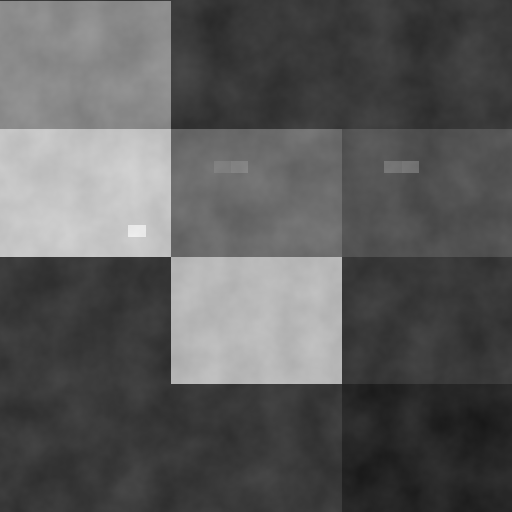
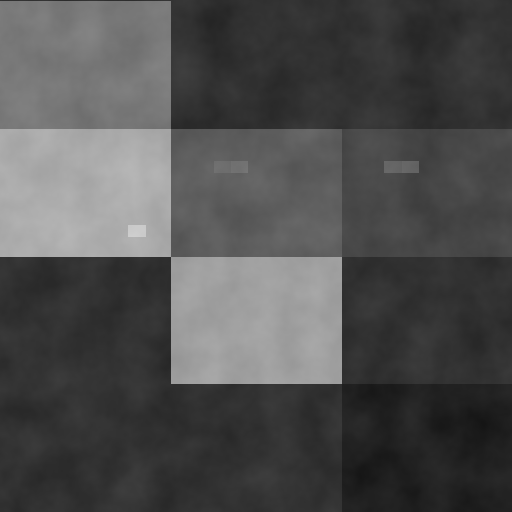
refactor(map-3d): address code review feedback - improve shader configurability and performance

Changed region(s): [[0.0, 0.25, 0.3438, 0.5], [0.375, 0.5, 0.6562, 0.75], [0.3438, 0.5, 0.4375, 0.625]]

diff --git a/scripts/generate-heightmap.js b/scripts/generate-heightmap.js
@@ -45,7 +45,12 @@ class PerlinNoise {
   }
 
   rand(x, y) {
-    const n = Math.sin(x * 12.9898 + y * 78.233 + this.seed) * 43758.5453;
+    // Pseudo-random number generator using sine function
+    // Constants chosen for good distribution properties
+    const MAGIC_X = 12.9898;  // X multiplier for distribution
+    const MAGIC_Y = 78.233;   // Y multiplier for distribution
+    const MAGIC_SCALE = 43758.5453; // Large prime-like number for amplification
+    const n = Math.sin(x * MAGIC_X + y * MAGIC_Y + this.seed) * MAGIC_SCALE;
     return n - Math.floor(n);
   }
 
@@ -259,8 +264,9 @@ async function generateHeightmap() {
       elevation += noiseContribution;
 
       // Normalize to 0-255 range
-      // Assuming max elevation around 100, scale accordingly
-      let normalizedElevation = (elevation / 100) * 255;
+      // Max expected elevation: base (up to 50) * modifier (up to 1.5) + lots (up to 15) + noise (up to 25) ≈ 115
+      const MAX_ELEVATION = 115;
+      let normalizedElevation = (elevation / MAX_ELEVATION) * 255;
       normalizedElevation = Math.max(0, Math.min(255, normalizedElevation));
 
       // Set pixel (grayscale)

diff --git a/frontend/3d/app-3d.js b/frontend/3d/app-3d.js
@@ -17,6 +17,7 @@ const uniforms = {
   lavaTexture: { value: null },
   iceTexture: { value: null },
   heightScale: { value: 30.0 },
+  texelSize: { value: 1.0 / 512.0 }, // Heightmap resolution
   // Elevation thresholds for blending (0-1 normalized)
   sandLevel: { value: 0.15 },
   grassLevel: { value: 0.35 },
@@ -138,8 +139,10 @@ async function loadAssets() {
 
 // Create the terrain geometry and material
 function createTerrain(vertexShader, fragmentShader) {
-  // High-resolution plane geometry (256x256 segments for smooth terrain)
-  const geometry = new THREE.PlaneGeometry(100, 100, 255, 255);
+  // High-resolution plane geometry (configurable resolution, default 128x128 for performance)
+  // For higher quality, increase to 255x255, but this may impact low-end devices
+  const resolution = 128; // Adjust based on performance needs
+  const geometry = new THREE.PlaneGeometry(100, 100, resolution, resolution);
   geometry.rotateX(-Math.PI / 2); // Make it horizontal
 
   // Create shader material
